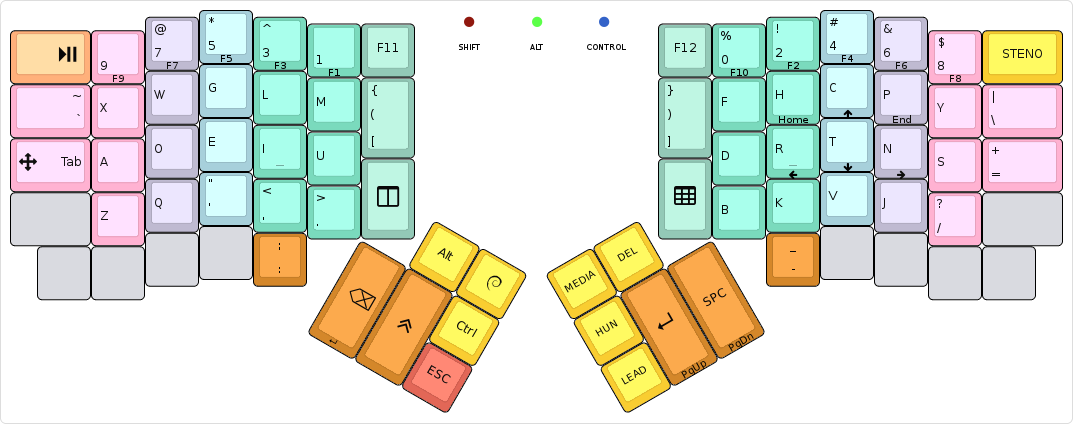
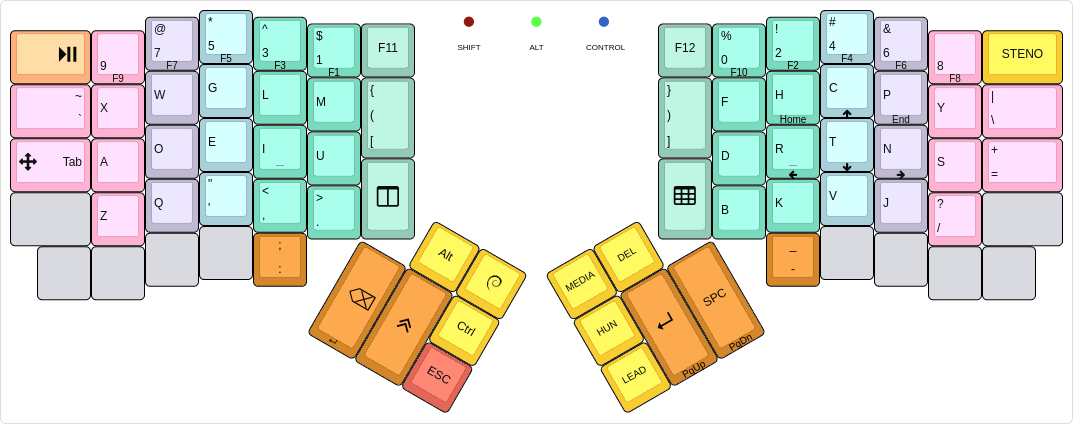
Tool & image update
Update the tools, the images and the readme to reflect the most recent
changes regarding the number/symbol row.

diff --git a/tools/text-to-log.py b/tools/text-to-log.py
@@ -8,12 +8,12 @@ charmap = {
     '7': [[2, 0]], '@': [[2, 5], [2, 0]],
     '5': [[3, 0]], '*': [[2, 5], [3, 0]],
     '3': [[4, 0]], '^': [[2, 5], [4, 0]],
-    '1': [[5, 0]],
+    '1': [[5, 0]], '$': [[2, 5], [5, 0]]
     '0': [[8, 0]], '%': [[2, 5], [8, 0]],
     '2': [[9, 0]], '!': [[2, 5], [9, 0]],
     '4': [[10, 0]], '#': [[2, 5], [10, 0]],
     '6': [[11, 0]], '&': [[2, 5], [11, 0]],
-    '8': [[12, 0]], '$': [[2, 5], [12, 0]],
+    '8': [[12, 0]],
 
     '`': [[0, 1]], '~': [[2, 5], [0, 1]],
     'y': [[1, 1]], 'Y': [[2, 5], [1, 1]],

diff --git a/readme.md b/readme.md
@@ -40,7 +40,7 @@ Some of the things in the layout only work when one uses [Spacemacs][spacemacs] 
 
 At its core, this is a Dvorak layout, with some minor changes. The more interesting parts are how certain keys behave:
 
-* The keys on the number row double as function keys, when held for a bit longer than an usual tap. This allows me to use the function keys without having to switch layers.
+* The number row is the same as in the [ADORE](#adore-layer) layer. The function keys are on the [Navigation and media layer](#navigation-and-media-layer).
 * The `Shift`, `Alt`, and `Control` modifiers are one-shot. When tapped, they are considered active for the next key press only. When double tapped, they toggle on, until a third, single tap sometime later. When held, they act as expected. My usual pattern is that I use these for the next keypress only, so this behaviour is perfect. If I need them held, I'll just double-tap.
 * The `GUI` key is special, because when I double-tap it, it sends `GUI + w`, which pops up an application selector. It also switches to a one-shot layer, where the number row on the left half turns into app selector macros, for the most common things I usually want to switch to. Otherwise it behaves as on a normal layout.
 * The `ESC` key also doubles as a one-shot cancel key: if tapped while any of the one-shot modifiers are in-flight (as in, single-tapped, and not expired yet), it cancels all one-shot modifiers. It also cancels the **Hun** layer, if active. Otherwise it sends the usual keycode.
@@ -167,13 +167,13 @@ The keymap default to forcing NKRO, which seems to upset Windows, and except the
 
 ### Overall changes
 
-* The number/function key behavior was changed: instead of a long press, one needs to double-tap now to access the function keys.
+* The number row has been completely rearranged on both the [Base](#base-layer) and the [ADORE](#adore-layer) layers.
+* The number/function key behavior was changed: function keys are now on the [Navigation and Media layer](#navigation-and-media-layer).
 * The `:`/`;` and `-`/`_` keys were put back to their thumb position on the bottom row, on both the [Base](#base-layer) and [ADORE](#adore-layer) layers.
 * The bottom large keys on the inner side of each half now function as [tmux](http://tmux.github.io/) keys: the left to send the prefix, the right to send the `display-panes` key. The left also doubles as a GNU screen prefix key, and sends `C-a` when double tapped.
 
 ### ADORE
 
-* The number/symbol row has been rearranged, and they do not function as tap-dance keys anymore.
 * `Y` and `X` have been swapped again.
 
 ### Heatmap
